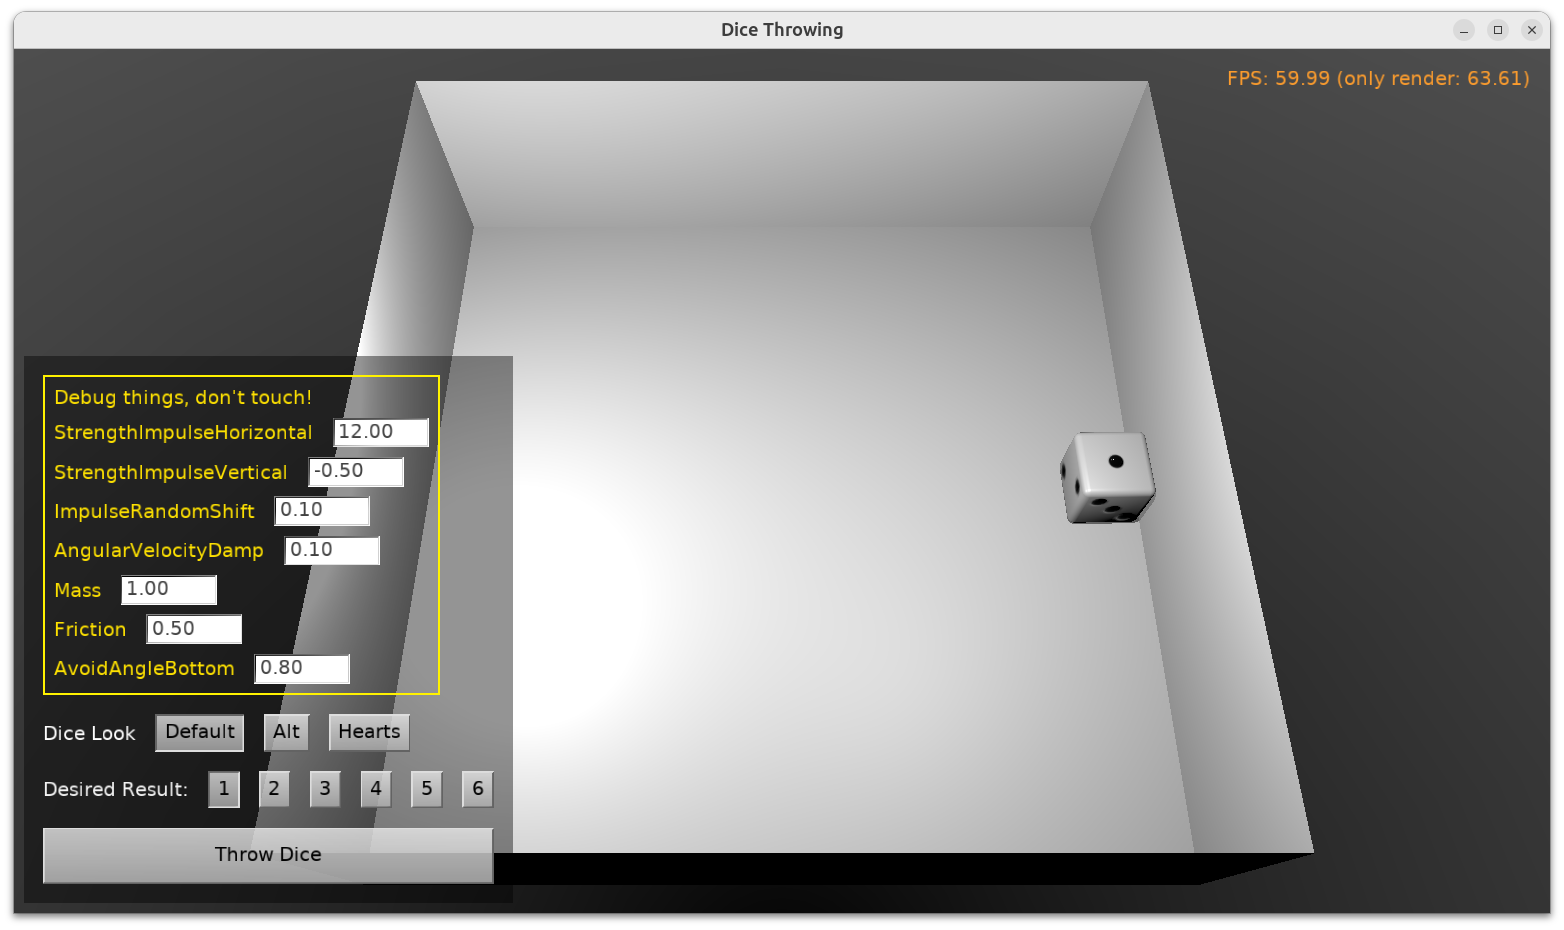
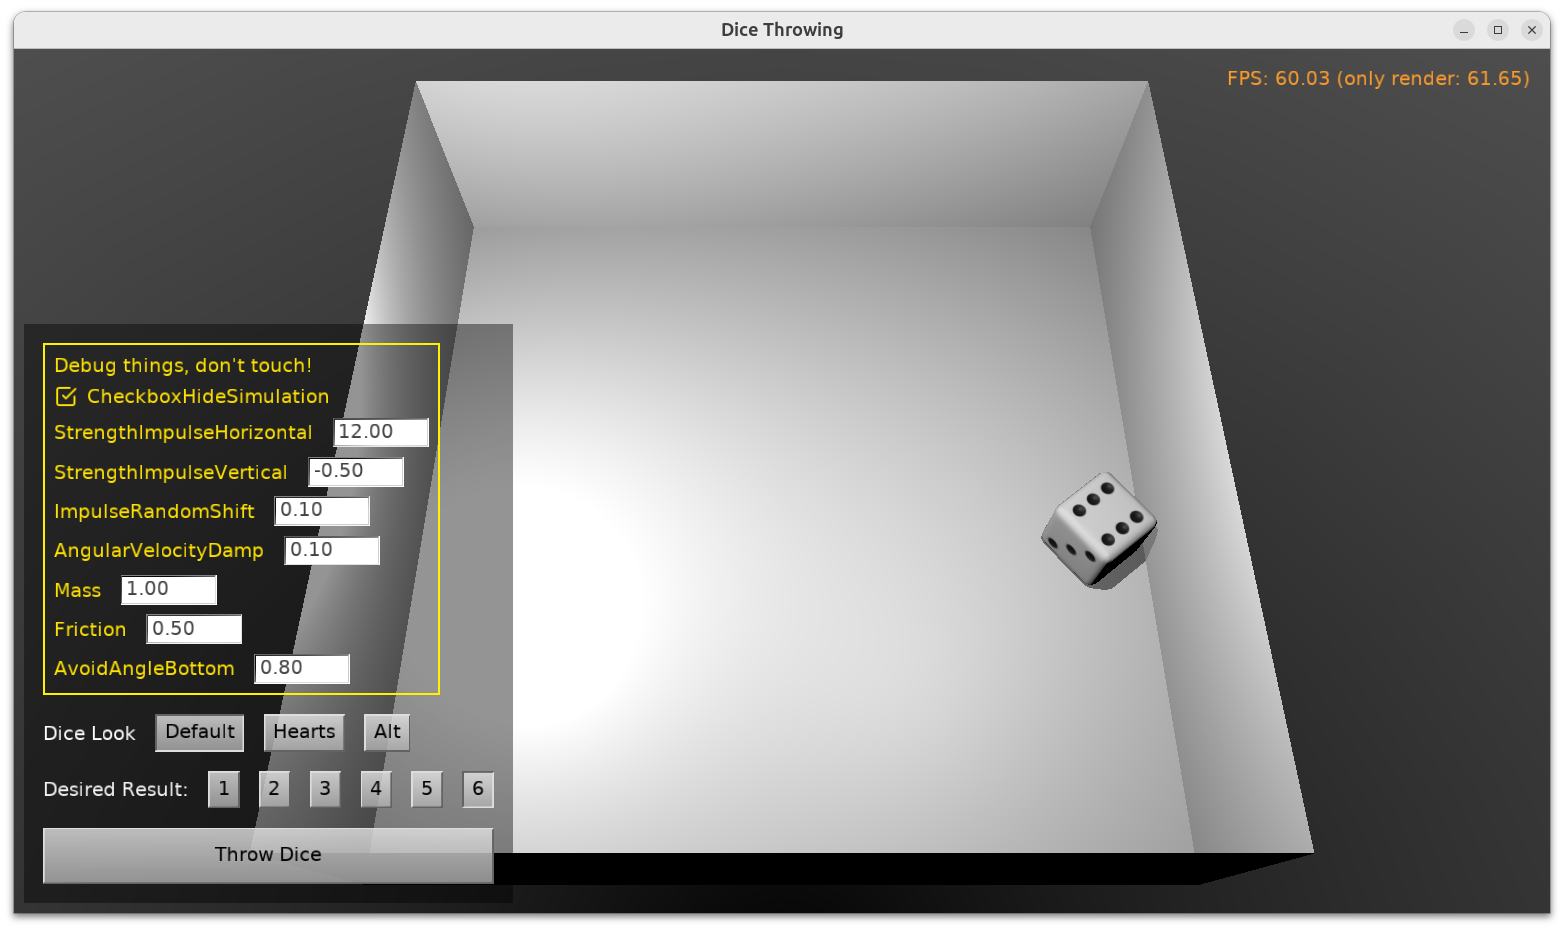
New screenshot, release making

diff --git a/README.md b/README.md
@@ -6,7 +6,15 @@ Despite using the physics simulation (so it looks nice and random), the result i
 
 Using [Castle Game Engine](https://castle-engine.io/).
 
+Note that a _debug_ build (with `DEBUG` symbol) shows additional UI to tweak physics parameters.
+
 ![Screenshot](screenshot.png)
+
+## Pland and Download
+
+Play the web version without installation: https://castle-engine.io/web-demos/castle-dice-throwing/
+
+Desktop versions (Windows, Linux): download release here: https://github.com/castle-engine/castle-dice-throwing/releases/latest
 
 ## Copyright and License
 
